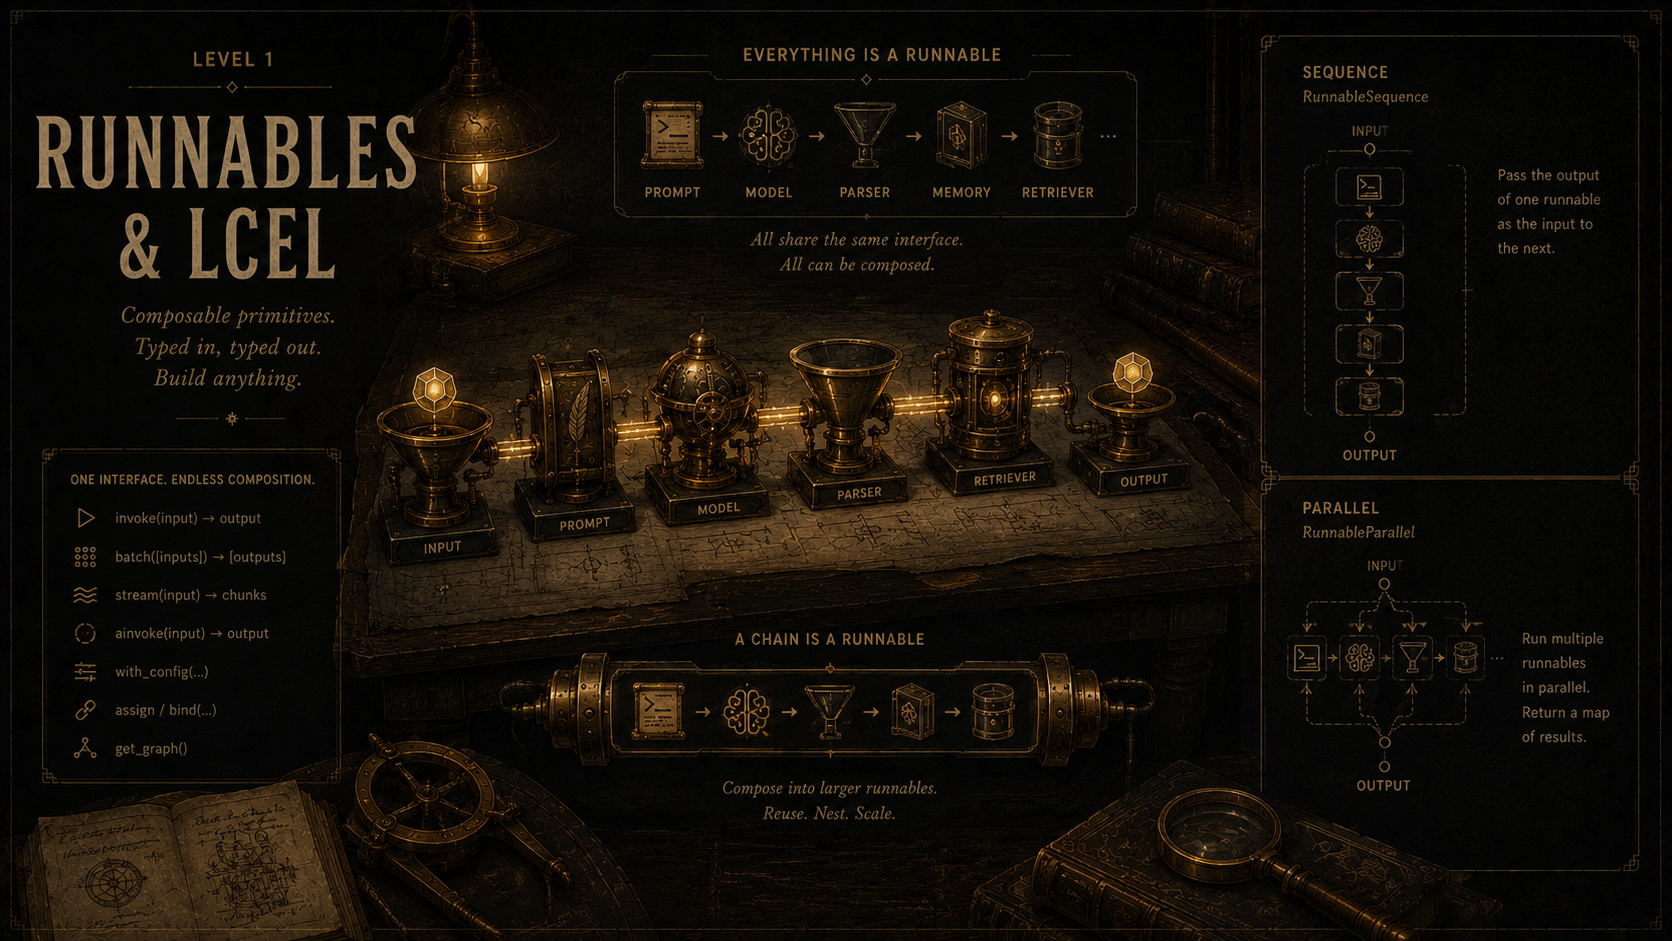
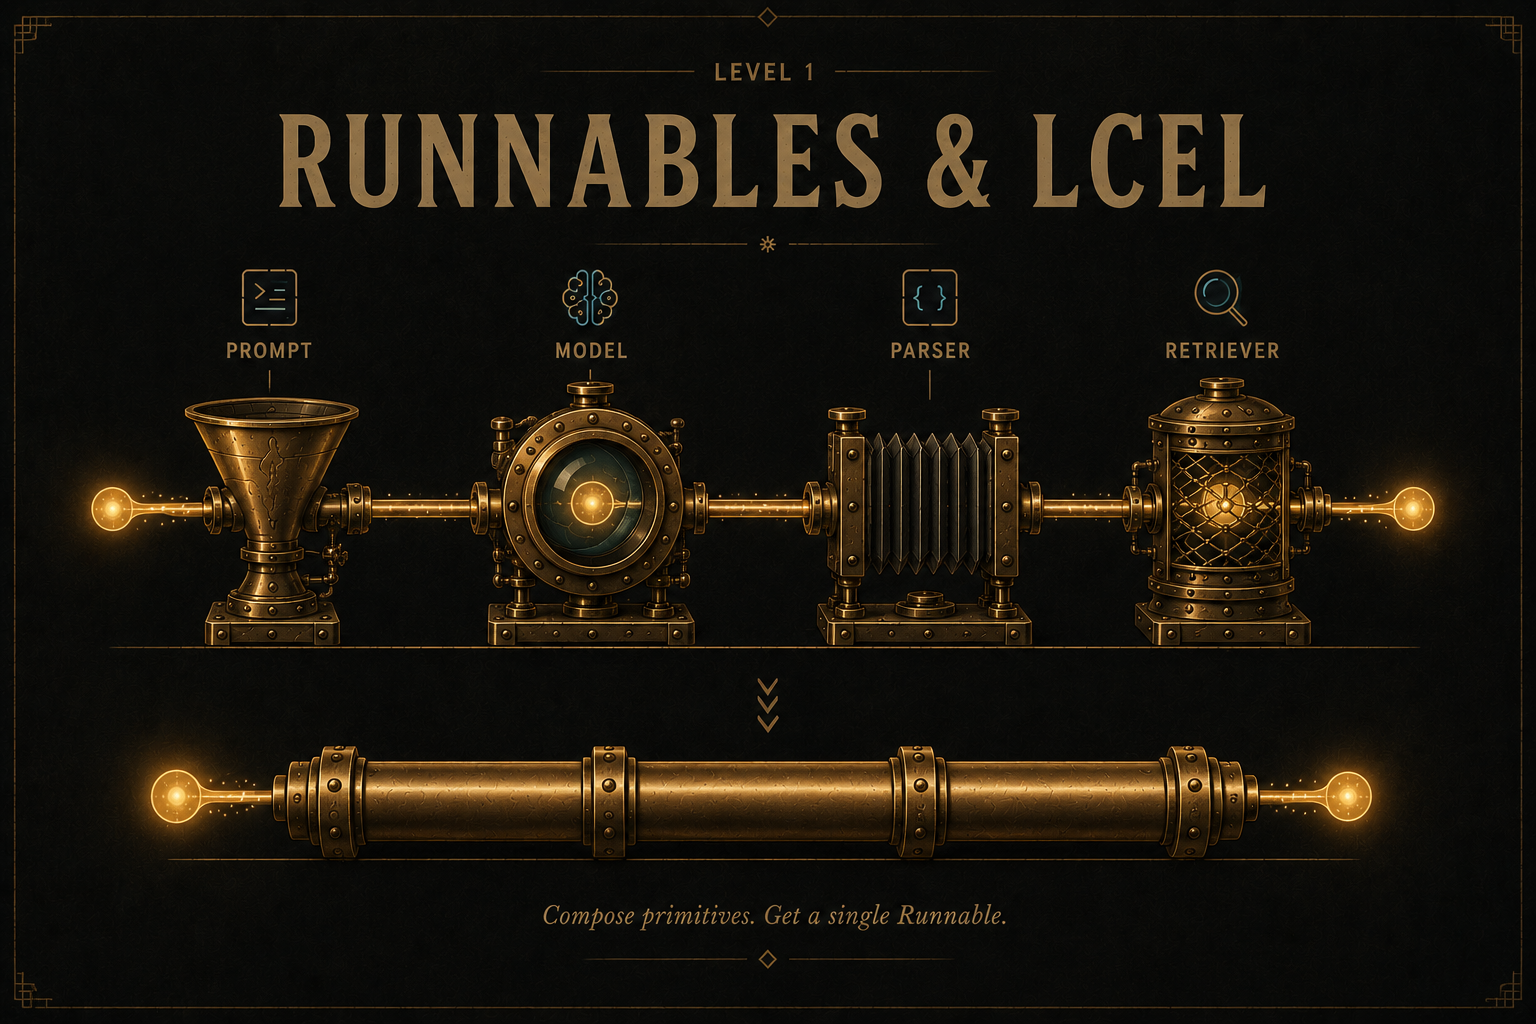
Update Term component to display long definitions and enhance tooltip styling. Adjusted layout properties for improved visibility and added a new image for streaming. Modified glossary page text for clarity in user instructions.

diff --git a/src/lib/components/Term.svelte b/src/lib/components/Term.svelte
@@ -20,7 +20,7 @@
 		{/if}
 		<span id="tip-{t}" role="tooltip" class="tip">
 			<strong>{entry.term}</strong>
-			<span>{entry.short}</span>
+			<span class="body">{entry.long}</span>
 		</span>
 	</span>
 {:else}
@@ -52,15 +52,17 @@
 		left: 50%;
 		top: calc(100% + 0.5rem);
 		transform: translate(-50%, -4px);
-		min-width: 14rem;
-		max-width: 22rem;
+		min-width: 16rem;
+		max-width: 26rem;
+		max-height: min(16rem, 50vh);
+		overflow-y: auto;
 		padding: 0.65rem 0.8rem;
 		background: var(--color-bg-elev-2);
 		border: 1px solid var(--color-border-strong);
 		border-radius: 0.5rem;
 		font-family: var(--font-sans);
 		font-size: 0.8rem;
-		line-height: 1.45;
+		line-height: 1.5;
 		color: var(--color-fg-muted);
 		opacity: 0;
 		pointer-events: none;
@@ -70,7 +72,12 @@
 		z-index: 30;
 		display: flex;
 		flex-direction: column;
-		gap: 0.25rem;
+		gap: 0.35rem;
+		box-shadow: 0 8px 24px -8px color-mix(in oklch, black 45%, transparent);
+	}
+
+	.tip .body {
+		color: var(--color-fg-muted);
 	}
 
 	.tip strong {

diff --git a/src/routes/glossary/+page.svelte b/src/routes/glossary/+page.svelte
@@ -38,7 +38,7 @@
 		<p class="lead">
 			Every technical term in the curriculum — from <em>prompt</em> and <em>chain</em> through
 			reducers, checkpointers, and compaction. Hover underlined terms in any lesson for the
-			short definition; search here for the full entry.
+			full definition; search here to browse every entry.
 		</p>
 		<input
 			class="search"